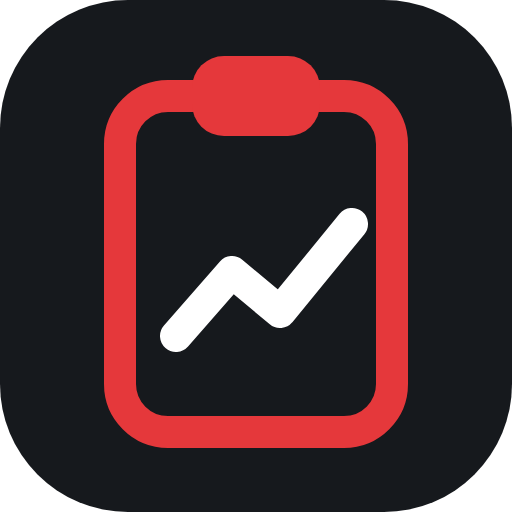
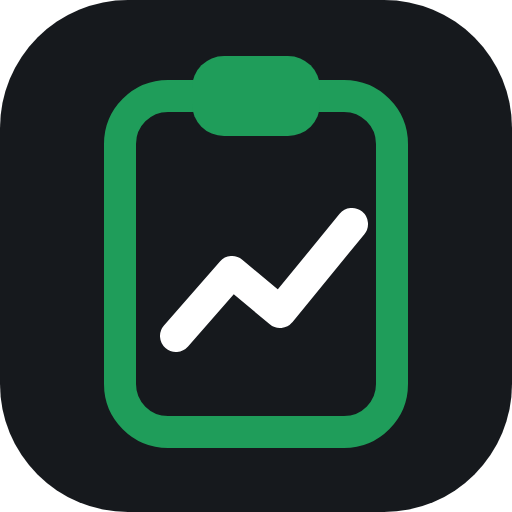
Money green trim instead of red
Overruns and losses keep their red so warnings stay distinct from the trim.

Claude-Session: https://claude.ai/code/session_01Dk7mP4ZUHrD9c3GfKoeuhX

Changed region(s): [[0.1875, 0.0938, 0.8125, 0.875]]

diff --git a/index.html b/index.html
@@ -19,7 +19,7 @@
 :root{
   --bg:#f6f6f7;--surface:#ffffff;--surface2:#f3f4f6;--surface3:#e9ebee;--ink:#16191d;--muted:#5f6873;
   --line:rgba(16,24,40,.08);--line2:rgba(16,24,40,.14);
-  --hi:#dc2f33;--hi-dk:#a91e22;--hi-ink:#fff;--hi-soft:rgba(220,47,51,.10);--glow:rgba(220,47,51,.28);
+  --hi:#17804a;--hi-dk:#0f5c34;--hi-ink:#fff;--hi-soft:rgba(23,128,74,.10);--glow:rgba(23,128,74,.28);
   --good:#1a7f4e;--good-bg:#e7f6ee;--bad:#c42b2b;--bad-bg:#fdeceb;--warn:#9a5b00;--warn-bg:#fff4dc;
   --nav:rgba(255,255,255,.88);--nav-ink:#16191d;--nav-muted:#5f6873;
   --r:20px;--r-sm:12px;--ease:cubic-bezier(.2,.7,.2,1);
@@ -28,7 +28,7 @@
 }
 html{-webkit-text-size-adjust:100%;background:var(--bg)}
 body{margin:0;color:var(--ink);font:15px/1.5 ui-sans-serif,-apple-system,BlinkMacSystemFont,"Segoe UI",Roboto,"Helvetica Neue",Arial,sans-serif;
-  background:radial-gradient(1100px 420px at 0% -8%,rgba(220,47,51,.06),transparent 62%),var(--bg);
+  background:radial-gradient(1100px 420px at 0% -8%,rgba(23,128,74,.07),transparent 62%),var(--bg);
   min-height:100vh;padding-bottom:calc(84px + env(safe-area-inset-bottom,0px));-webkit-font-smoothing:antialiased}
 img{max-width:100%}
 .num,td.n,.kpi b{font-variant-numeric:tabular-nums}
@@ -137,7 +137,7 @@ legend{font-size:13px;font-weight:700;padding:0 6px;color:var(--ink)}
 .kpi b{display:block;font-size:27px;font-weight:800;margin-top:6px;line-height:1.1;letter-spacing:-.02em}
 .kpi small{display:block;color:var(--muted);font-size:13px;margin-top:5px}
 .pos{color:var(--good)}.neg{color:var(--bad)}
-.kpi.lead{background:radial-gradient(240px 120px at 0% 0%,rgba(220,47,51,.08),transparent 70%),var(--surface);border-color:rgba(220,47,51,.35)}
+.kpi.lead{background:radial-gradient(240px 120px at 0% 0%,rgba(23,128,74,.09),transparent 70%),var(--surface);border-color:rgba(23,128,74,.35)}
 .kpi.lead::before{content:"";position:absolute;left:16px;right:16px;top:0;height:2px;border-radius:2px;background:linear-gradient(90deg,var(--hi),transparent)}
 
 /* Tables */
@@ -160,7 +160,7 @@ tfoot td{font-weight:750;border-bottom:0;border-top:1px solid var(--line2)}
 /* Bars */
 .bar{height:8px;background:var(--surface3);border-radius:999px;overflow:hidden;min-width:60px}
 .bar i{display:block;height:100%;background:#3b424b;border-radius:999px}
-.bar i.over{background:linear-gradient(90deg,var(--hi-dk),var(--bad))}
+.bar i.over{background:linear-gradient(90deg,#9b1c1c,var(--bad))}
 .bar i.ok{background:linear-gradient(90deg,#2f9e6c,var(--good))}
 .mbar{display:grid;grid-template-columns:1fr 1fr;align-items:center;height:14px;min-width:120px}
 .mbar .l{display:flex;justify-content:flex-end;border-right:1px solid var(--line2);height:100%;align-items:center}
@@ -195,7 +195,7 @@ tfoot td{font-weight:750;border-bottom:0;border-top:1px solid var(--line2)}
 .empty .btns{justify-content:center;margin-top:14px}
 .insight{display:flex;gap:10px;padding:12px 14px;border-radius:14px;background:var(--surface2);font-size:14px;align-items:flex-start}
 .insight.warn{background:var(--warn-bg)}
-.insight.bad{background:var(--bad-bg);box-shadow:inset 3px 0 0 var(--hi)}
+.insight.bad{background:var(--bad-bg);box-shadow:inset 3px 0 0 var(--bad)}
 .insight.good{background:var(--good-bg)}
 .insight b{white-space:nowrap}
 .dot{width:10px;height:10px;border-radius:50%;flex:none;display:inline-block}
@@ -217,7 +217,7 @@ tfoot td{font-weight:750;border-bottom:0;border-top:1px solid var(--line2)}
 .sched th{background:none;text-transform:none;letter-spacing:0;font-size:13px;color:var(--ink);border-bottom:1px solid var(--line2)}
 .sched th.today{color:var(--hi)}
 .sched th.today::after{content:"";display:block;height:2px;border-radius:2px;background:var(--hi);margin-top:6px;width:24px}
-.sched td.today{background:rgba(220,47,51,.04)}
+.sched td.today{background:rgba(23,128,74,.05)}
 .sched th:first-child,.sched td:first-child{width:150px}
 .sched tfoot td{border-top:0}
 .emp-cell{display:flex;gap:8px;align-items:flex-start}
@@ -273,7 +273,7 @@ input:focus-visible,select:focus-visible,textarea:focus-visible{outline:none}
     </div>
   </div>
   <a class="brand" href="#/schedule" aria-label="Contractor Mainframe home">
-    <svg width="32" height="32" viewBox="0 0 64 64" aria-hidden="true"><rect width="64" height="64" rx="16" fill="#16191d"/><rect x="15" y="12" width="34" height="42" rx="6" fill="none" stroke="#e5383b" stroke-width="4"/><rect x="24" y="7" width="16" height="10" rx="4" fill="#e5383b"/><path d="M22 42l7-8 6 5 9-11" fill="none" stroke="#fff" stroke-width="4" stroke-linecap="round" stroke-linejoin="round"/></svg>
+    <svg width="32" height="32" viewBox="0 0 64 64" aria-hidden="true"><rect width="64" height="64" rx="16" fill="#16191d"/><rect x="15" y="12" width="34" height="42" rx="6" fill="none" stroke="#1f9d5a" stroke-width="4"/><rect x="24" y="7" width="16" height="10" rx="4" fill="#1f9d5a"/><path d="M22 42l7-8 6 5 9-11" fill="none" stroke="#fff" stroke-width="4" stroke-linecap="round" stroke-linejoin="round"/></svg>
     <span>Contractor <em>Mainframe</em></span>
   </a>
   <nav class="nav" aria-label="Main">

diff --git a/sw.js b/sw.js
@@ -1,5 +1,5 @@
 // Contractor Mainframe service worker: makes the app open offline. Bump VERSION on each release.
-const VERSION = 'cm-v3';
+const VERSION = 'cm-v4';
 const SHELL = ['./', './index.html', './manifest.webmanifest', './icons/icon.svg', './icons/icon-192.png', './icons/icon-512.png', './icons/apple-touch-icon.png'];
 self.addEventListener('install', e => {
   e.waitUntil(caches.open(VERSION).then(c => c.addAll(SHELL)).then(() => self.skipWaiting()));
